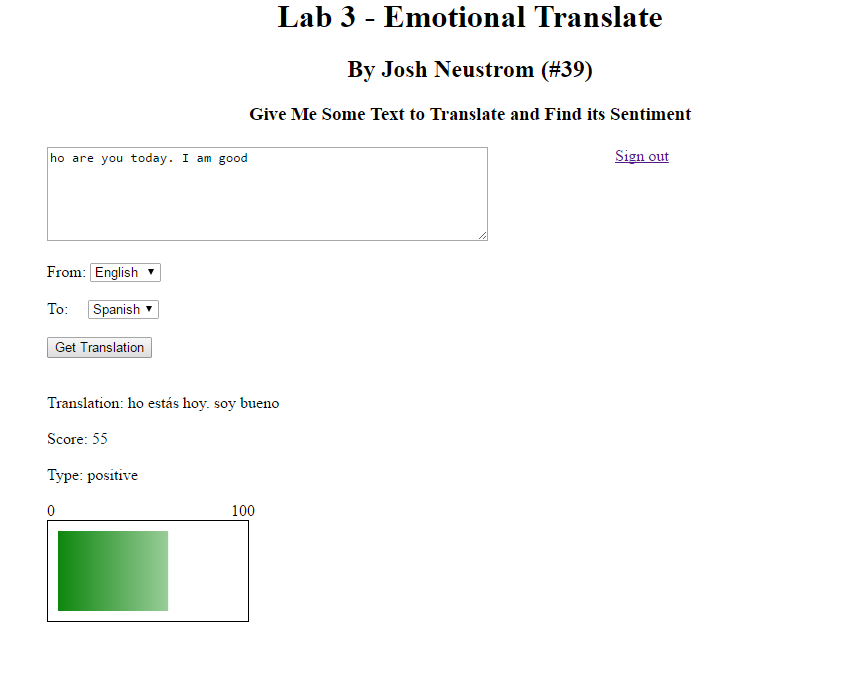
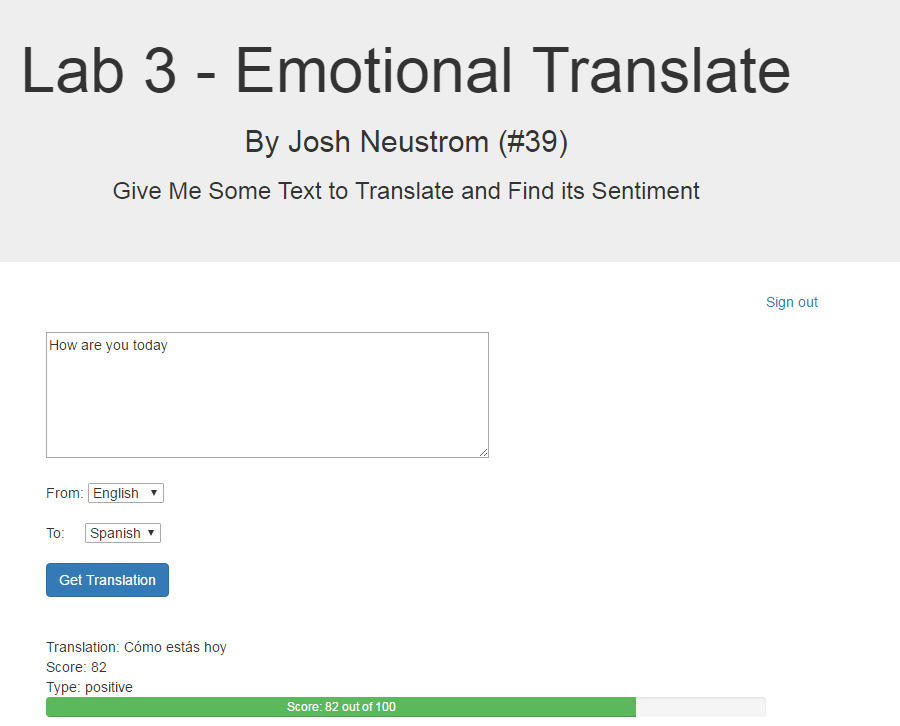
fixed graphics and progress bar

diff --git a/Lab3_CS5551/Source/js/app.js b/Lab3_CS5551/Source/js/app.js
@@ -3,15 +3,6 @@
  */
 'use strict';
 
-// Uclassify Api key for mood
-// read yyckHiiOgGhQ
-// Write t0gVcFMv7JGd
-
-// Google client id - 872368336329-smi8nn873rvhopil30abkemqn1lukuh9.apps.googleusercontent.com
-// client secret - VJL00eeSj7buen7p6hyuWm1G
-// https://www.googleapis.com/language/translate/v2?key=YOUR_API_KEY&q=hello%20world&source=en&target=de
-// simple google api - AIzaSyCvMpcuLjolygMmSkHIIHIgnkq-10yIEXM
-
 
 
 
@@ -39,6 +30,7 @@ function signOut() {
 
 }
 
+// sign in actions with Google
 function onSignIn(googleUser) {
     // Useful data for your client-side scripts:
     var profile = googleUser.getBasicProfile();
@@ -54,11 +46,13 @@ function onSignIn(googleUser) {
     console.log("ID Token: " + id_token);
 }
 
-
+// Once signed in to Google, go to main translation page
 function onSuccess(googleUser) {
     console.log('Signed in as: ' + googleUser.getBasicProfile().getName());
     window.location.href="translate.html";
 }
+
+// Code for translation module
 angular.module('myApp', [])
     .controller('View1Ctrl', function ($scope, $http) {
 
@@ -66,18 +60,21 @@ angular.module('myApp', [])
 
         $scope.myFunction = function(){
 
+            // Get form info
             var sourceText = document.getElementById("sourceText").value;
             var sourceLanguage = document.getElementById("from").value;
             var targetLanguage = document.getElementById("to").value;
 
+            // translate the text
            $http.get("https://www.googleapis.com/language/translate/" + "v2?key=AIzaSyCvMpcuLjolygMmSkHIIHIgnkq-10yIEXM&source="
                + sourceLanguage + "&target=" + targetLanguage + "&q=" + sourceText)
                .then(function(response){
 
+                   // Store translation
                    $scope.transText = "Translation: " + response.data.data.translations[0].translatedText;
                   var transText =  "Translation: " + response.data.data.translations[0].translatedText;
 
-
+                   // Get sentiment
                   $http.get("http://gateway-a.watsonplatform.net/calls/text/TextGetTextSentiment?" +
                       "apikey=6374c076c0afdefeb93b382ecf5610fb71710307&outputMode=json&text=" + transText)
                       .then(function(response2){
@@ -86,39 +83,23 @@ angular.module('myApp', [])
                           // Angular broke Google Sign Out so I had to stop using it
                           $scope.score =  "Score: " + parseFloat(response2.data.docSentiment.score*100).toFixed(0);
                           $scope.type =   "Type:  " +  response2.data.docSentiment.type;
-                          // Set width pasted on score
-                          var width = response2.data.docSentiment.score*200;
-                          var type = response2.data.docSentiment.type;
 
+                          // Set width pasted on score
+                          var percent = parseFloat(response2.data.docSentiment.score*100).toFixed(0);
+                          var type = response2.data.docSentiment.type;
 
                           // thanks to w3 School for the idea
                           // Create meter
-                          document.getElementById("canvas_head").innerHTML = "0 &nbsp &nbsp &nbsp &nbsp &nbsp " +
-                              "&nbsp &nbsp &nbsp &nbsp &nbsp &nbsp &nbsp &nbsp &nbsp &nbsp" +
-                              "&nbsp &nbsp &nbsp &nbsp &nbsp &nbsp &nbsp 100";
-                          document.getElementById("canvas").style.border = "1px solid #000000";
-                          var c = document.getElementById("canvas");
-                          var ctx = c.getContext("2d");
-
-                          // Create gradient
-                          var grd = ctx.createLinearGradient(0,0,200,0);
-
-                          // Set color for positive or negative
-                          if(type=="positive")
+                          if(type == "positive")
                           {
-                              grd.addColorStop(0,"green");
+                              $scope.state = "progress-bar-success";
                           }
                           else
                           {
-                              grd.addColorStop(0,"red");
+                              $scope.state = "progress-bar progress-bar-danger";
                           }
 
-                          grd.addColorStop(1,"white");
-                            // Fill with gradient
-                          ctx.fillStyle = grd;
-
-                          ctx.fillRect(10,10,width,80);
-
+                          $scope.myStyle = {width: percent + '%'};
 
                       });
 

diff --git a/Lab3_CS5551/Source/translate.html b/Lab3_CS5551/Source/translate.html
@@ -8,21 +8,33 @@
 <head>
     <title>Translate API Example</title>
     <meta http-equiv="X-UA-Compatible" content="IE=edge">
+    <meta name="viewport" content="width=device-width, initial-scale=1">
+    <link rel="stylesheet" href="http://maxcdn.bootstrapcdn.com/bootstrap/3.3.7/css/bootstrap.min.css">
     <script src="https://ajax.googleapis.com/ajax/libs/angularjs/1.4.4/angular.min.js"></script>
-    <head>
-        <script src="https://ajax.googleapis.com/ajax/libs/jquery/1.12.4/jquery.min.js"></script>
-    </head>
     <script src="https://apis.google.com/js/platform.js?onload=onLoad" async defer></script>
     <script src="js/app.js"></script>
     <meta name="google-signin-client_id" content="872368336329-smi8nn873rvhopil30abkemqn1lukuh9.apps.googleusercontent.com">
+    <script src="http://maxcdn.bootstrapcdn.com/bootstrap/3.3.7/js/bootstrap.min.js"></script>
+
 </head>
 <body>
-<h1>Emotional Translate</h1>
-<!-- sign-out -->
-<a href="#" onclick="signOut();">Sign out</a>
+<div class="jumbotron text-center">
+    <h1><center>Lab 3 - Emotional Translate</center></h1>
+    <h2><center>By Josh Neustrom (#39)</center></h2>
+    <h3><center>Give Me Some Text to Translate and Find its Sentiment</center></h3>
+</div>
+
+<table style="width:100%">
+    <tr>
+        <td width="20%" style="vertical-align:top">
+            <div id="left"></div>
+        </td>
+        <td width="40%" style="vertical-align:top">
+
 <!-- Text Input Field -->
-<div  ng-controller="View1Ctrl" style="top: 200px">
-    <textarea id="sourceText" placeholder = "Enter text to translate. Write at least ten words." rows="6" cols="60" ></textarea>
+<div  ng-controller="View1Ctrl">
+    <br/><br/>
+    <textarea id="sourceText" placeholder = "Enter text to translate. Give us at least ten words." rows="6" cols="60" ></textarea>
     <br/><br/>
 
     <!-- Language to Translate From -->
@@ -45,22 +57,34 @@
         <option value="fr">French</option>
         <option value="es">Spanish</option>
     </select> <br/><br/>
-    <!-- Submit Butto  -->
-    <button id="btn_getReview" ng-click="myFunction()">Get Translation</button><br/><br/><br/>
+
+    <!-- Submit Button  -->
+    <button type="button" class="btn btn-primary" id="btn_getReview" ng-click="myFunction()"> Get Translation </button><br/><br/><br/>
 
     <!-- Translated Text -->
-    {{transText}}<br/><br/>
-    {{score}}<br/><br/>
-    {{type}}<br/><br/>
-    <div id = "canvas_head"></div>
-    <canvas id="canvas"  width="200" height="100"/>
+    {{transText}}<br/>
+    {{score}}<br/>
+    {{type}}<br/>
 
-
+    <!-- Thanks to http://jsfiddle.net/un8B5/ for helping me figure this out -->
+    <div class="progress">
+        <div class="progress-bar {{state}}" role="progressbar" aria-valuenow="{{value}}" aria-valuemin="0" aria-valuemax="100" ng-style="myStyle"> <span class="sr-only">{{value}}%</span>
+            {{score}} out of 100
+        </div>
+    </div>
 
 
 </div>
 
-
+</td>
+        <td width="20%" style="vertical-align:top">
+            <div id="right">
+                <!-- sign-out -->
+                <a href="#" onclick="signOut();">Sign out</a>
+            </div>
+        </td>
+    </tr>
+    </table>
 
 
 </body>

diff --git a/Lab3_CS5551/Source/login.html b/Lab3_CS5551/Source/login.html
@@ -20,27 +20,33 @@
 <!-- from https://developers.google.com/identity/sign-in/web/sign-in -->
 <html>
 <head>
+    <meta name="viewport" content="width=device-width, initial-scale=1">
+    <link rel="stylesheet" href="http://maxcdn.bootstrapcdn.com/bootstrap/3.3.7/css/bootstrap.min.css">
     <script src="https://apis.google.com/js/platform.js" async defer></script>
     <meta name="google-signin-client_id" content="872368336329-smi8nn873rvhopil30abkemqn1lukuh9.apps.googleusercontent.com">
     <script src="js/app.js"></script>
+    <script src="http://maxcdn.bootstrapcdn.com/bootstrap/3.3.7/js/bootstrap.min.js"></script>
 </head>
 
 <body>
-<h1>Lab 3 - Welcome to the Emotional Translate</h1>
-<h3>Sign-In Below Using Google</h3>
+<div class="jumbotron text-center">
+    <h1><center>Lab 3 - Welcome to the Emotional Translate</center></h1>
+    <h3><center>Sign-In Below Using Google</center></h3>
+</div>
+
 <!-- sign-in -->
 <table style="width:100%">
     <tr>
-        <td width="5%" style="vertical-align:top">
+        <td width="45%" style="vertical-align:top">
             <div id="left"></div>
         </td>
-        <td width="20%" style="vertical-align:top">
+        <td width="25%" style="vertical-align:top">
             <!-- sign-in -->
-            </br>
+            </br></br></br>
             <div class="g-signin2" data-onsuccess="onSuccess">
             </div>
         </td>
-        <td width="75%" style="vertical-align:top">
+        <td width="30%" style="vertical-align:top">
             <div id="right">
                 <!-- sign-out -->
                 <a href="#" onclick="signOut();">Sign out</a>

diff --git a/Lab3_CS5551/Source/css/main.css b/Lab3_CS5551/Source/css/main.css
@@ -1,0 +1,5 @@
+body
+{
+    background-color: lightblue;
+}
+
